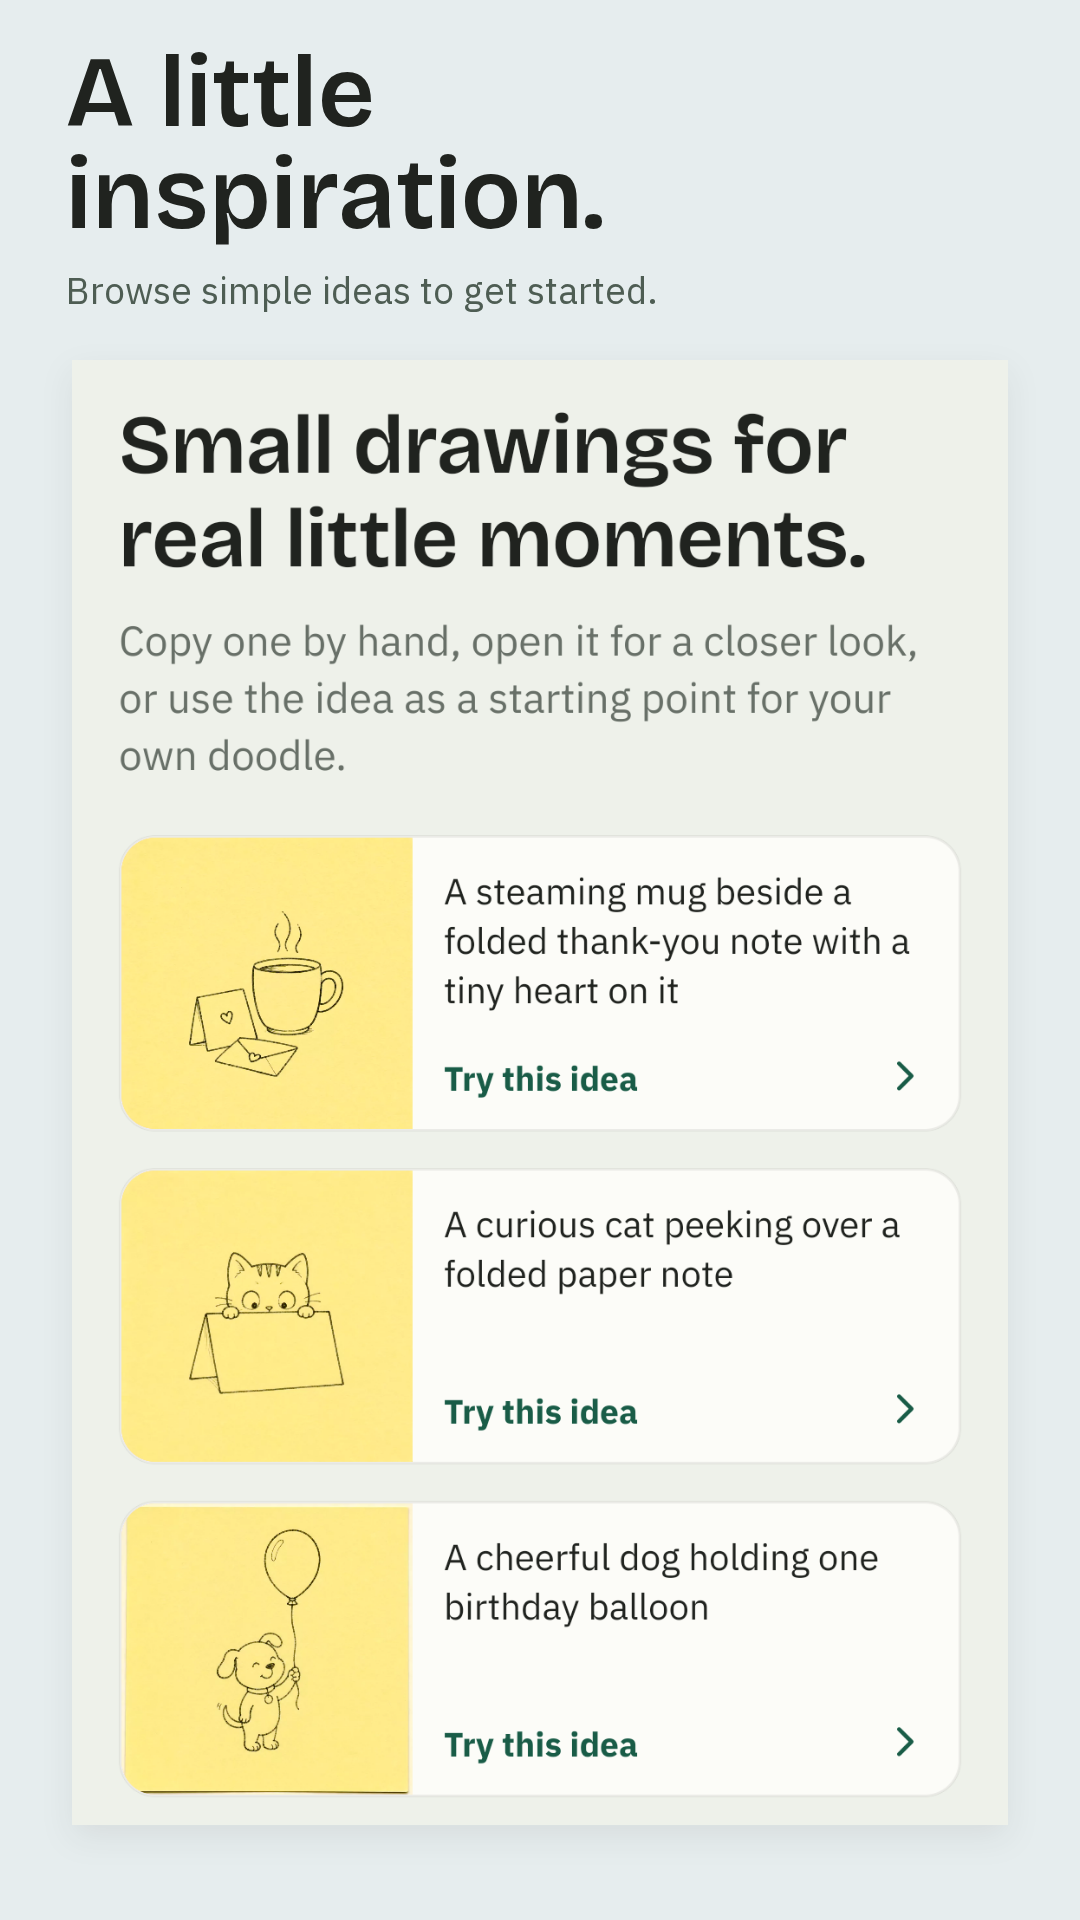
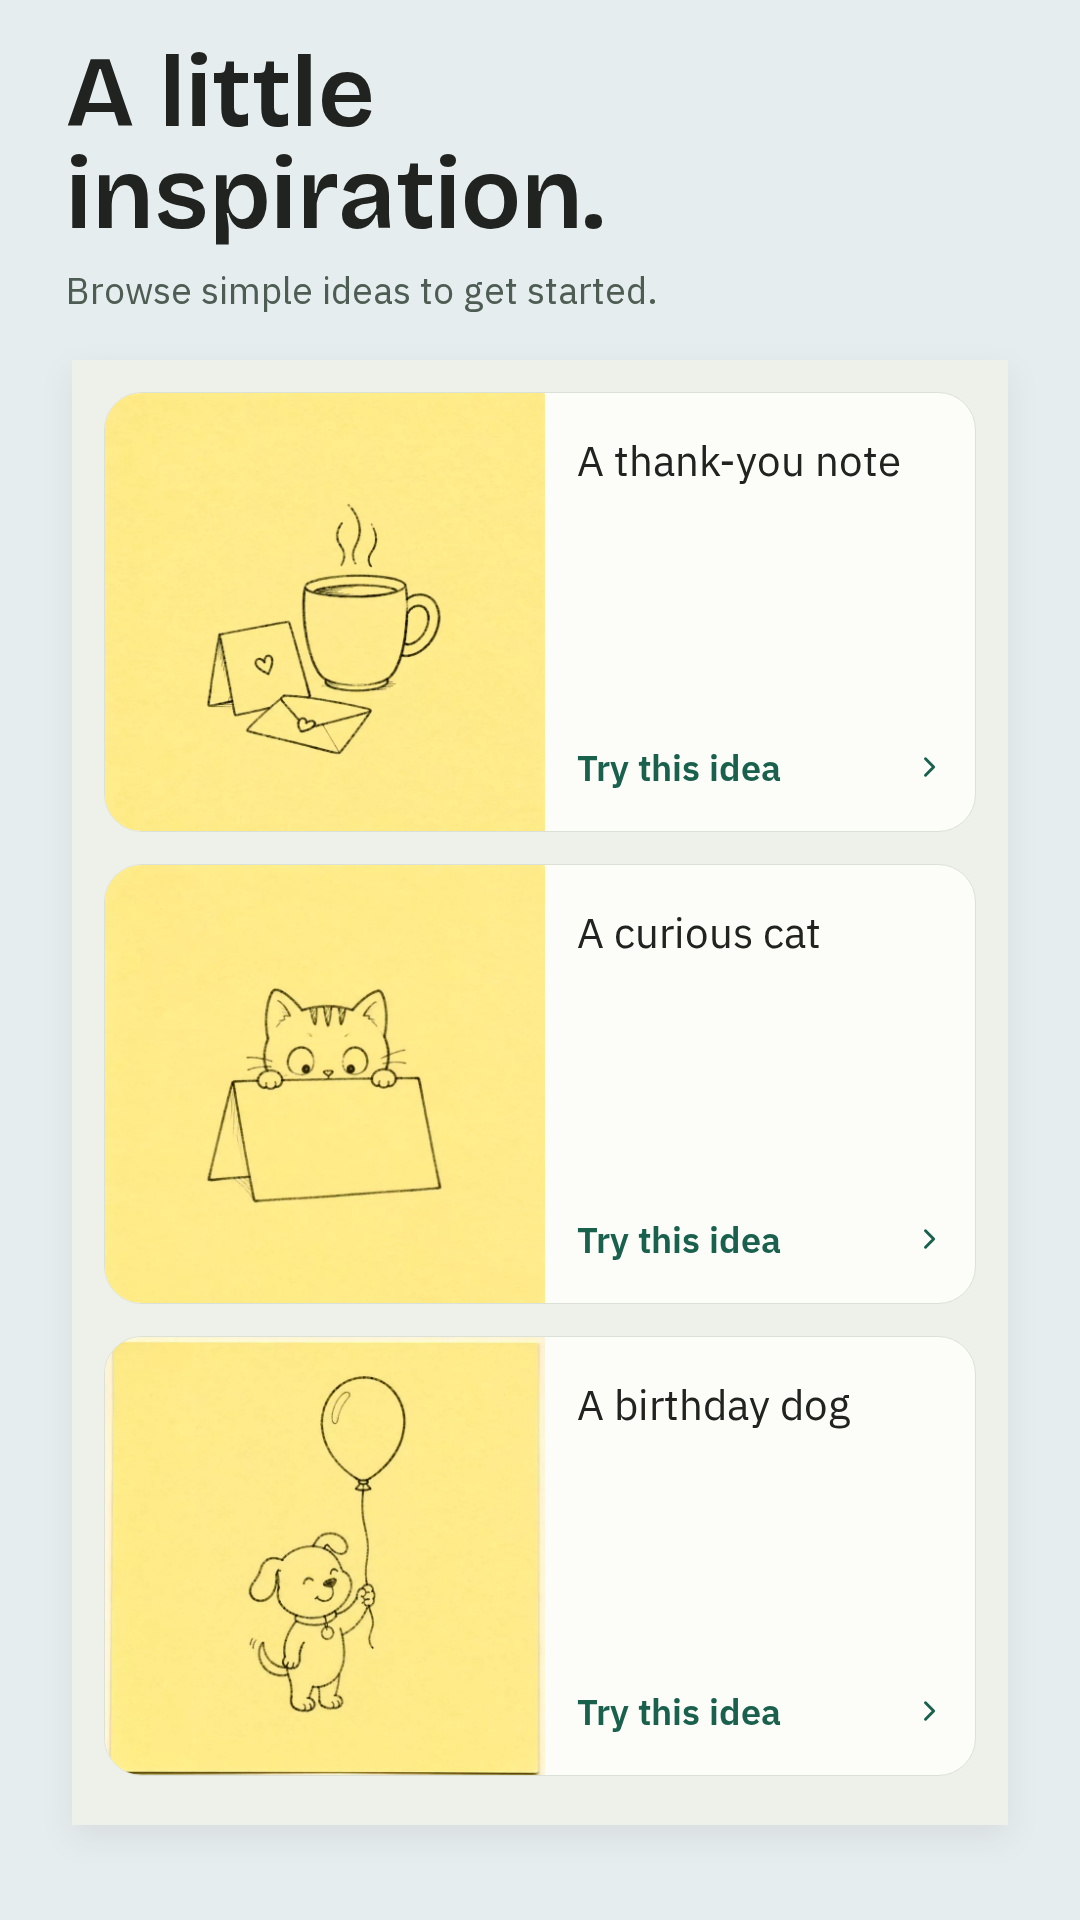
Simplify inspiration store screenshot and refresh preview

diff --git a/doodle/marketing-assets/play-counter-cleanup-2026-10-04/gallery.html b/doodle/marketing-assets/play-counter-cleanup-2026-10-04/gallery.html
@@ -2,4 +2,4 @@
 @font-face{font-family:Bricolage;src:url('../../mobile/assets/BricolageGrotesque-Variable.ttf') format('truetype');font-weight:100 900;font-display:swap}
 @font-face{font-family:Plex;src:url('../../mobile/assets/IBMPlexSans-Variable.ttf') format('truetype');font-weight:100 900;font-display:swap}
 body{margin:0;background:#eef1ea;color:#20231f;font:16px/1.5 Plex,sans-serif}main{max-width:1100px;margin:auto;padding:24px 20px}h1{font:600 30px/1.15 Bricolage,sans-serif;margin:0 0 12px}p{max-width:650px;margin:0 0 24px;color:#657064}figure{margin:0 0 36px}figcaption{font-weight:600;margin-bottom:10px}img{display:block;max-width:100%;height:auto;margin:auto}a{color:inherit}.phone{max-width:390px;margin-inline:auto}.native{max-width:390px;margin-inline:auto}small{display:block;color:#657064;margin-top:8px}.grid{display:grid;grid-template-columns:repeat(auto-fit,minmax(min(100%,300px),1fr));gap:28px}
-</style></head><body><main><h1>Doodle store screenshots</h1><p>Four release candidates. Counter text was removed from screenshots 1 and 4 using local Image Gen edits. All pixels outside those small areas are unchanged. Screenshots 2 and 3 are unchanged. Tap a screenshot to inspect it at full size.</p><p><small>Composed marketing assets. Owner acceptance and publishing approval are pending. Nothing has been uploaded to Play Console.</small></p><p><a href="../../docs/qa/detail-levels/hero/gallery.html">Review the app layout</a></p><div class="grid"><figure class="phone"><figcaption>Screenshot 1</figcaption><a href="exports/01-idea-to-doodle.png"><img src="exports/01-idea-to-doodle.png" width="1080" height="1920" alt="Doodle store screenshot 1" loading="lazy"></a></figure><figure class="phone"><figcaption>Screenshot 2</figcaption><a href="exports/02-detail-levels.png"><img src="exports/02-detail-levels.png" width="1080" height="1920" alt="Doodle store screenshot 2" loading="lazy"></a></figure><figure class="phone"><figcaption>Screenshot 3</figcaption><a href="exports/03-find-an-idea.png"><img src="exports/03-find-an-idea.png" width="1080" height="1920" alt="Doodle store screenshot 3" loading="lazy"></a></figure><figure class="phone"><figcaption>Screenshot 4</figcaption><a href="exports/04-save-share.png"><img src="exports/04-save-share.png" width="1080" height="1920" alt="Doodle store screenshot 4" loading="lazy"></a></figure></div></main></body></html>
+</style></head><body><main><h1>Doodle store screenshots</h1><p>Four release candidates. Screenshot 3 now has larger drawings and shorter labels. The outer captions remain consistent. Tap any screenshot to inspect it at full size.</p><p><small>Composed marketing assets. Owner acceptance and publishing approval are pending. Nothing has been uploaded to Play Console.</small></p><p><a href="../../docs/qa/detail-levels/hero/gallery.html">Review the app layout</a></p><div class="grid"><figure class="phone"><figcaption>Screenshot 1</figcaption><a href="exports/01-idea-to-doodle.png"><img src="exports/01-idea-to-doodle.png" width="1080" height="1920" alt="Doodle store screenshot 1" loading="lazy"></a></figure><figure class="phone"><figcaption>Screenshot 2</figcaption><a href="exports/02-detail-levels.png"><img src="exports/02-detail-levels.png" width="1080" height="1920" alt="Doodle store screenshot 2" loading="lazy"></a></figure><figure class="phone"><figcaption id="screenshot-3">Screenshot 3, simplified</figcaption><a href="exports/03-find-an-idea.png"><img src="exports/03-find-an-idea.png" width="1080" height="1920" alt="Doodle store screenshot 3" loading="lazy"></a></figure><figure class="phone"><figcaption>Screenshot 4</figcaption><a href="exports/04-save-share.png"><img src="exports/04-save-share.png" width="1080" height="1920" alt="Doodle store screenshot 4" loading="lazy"></a></figure></div></main></body></html>
